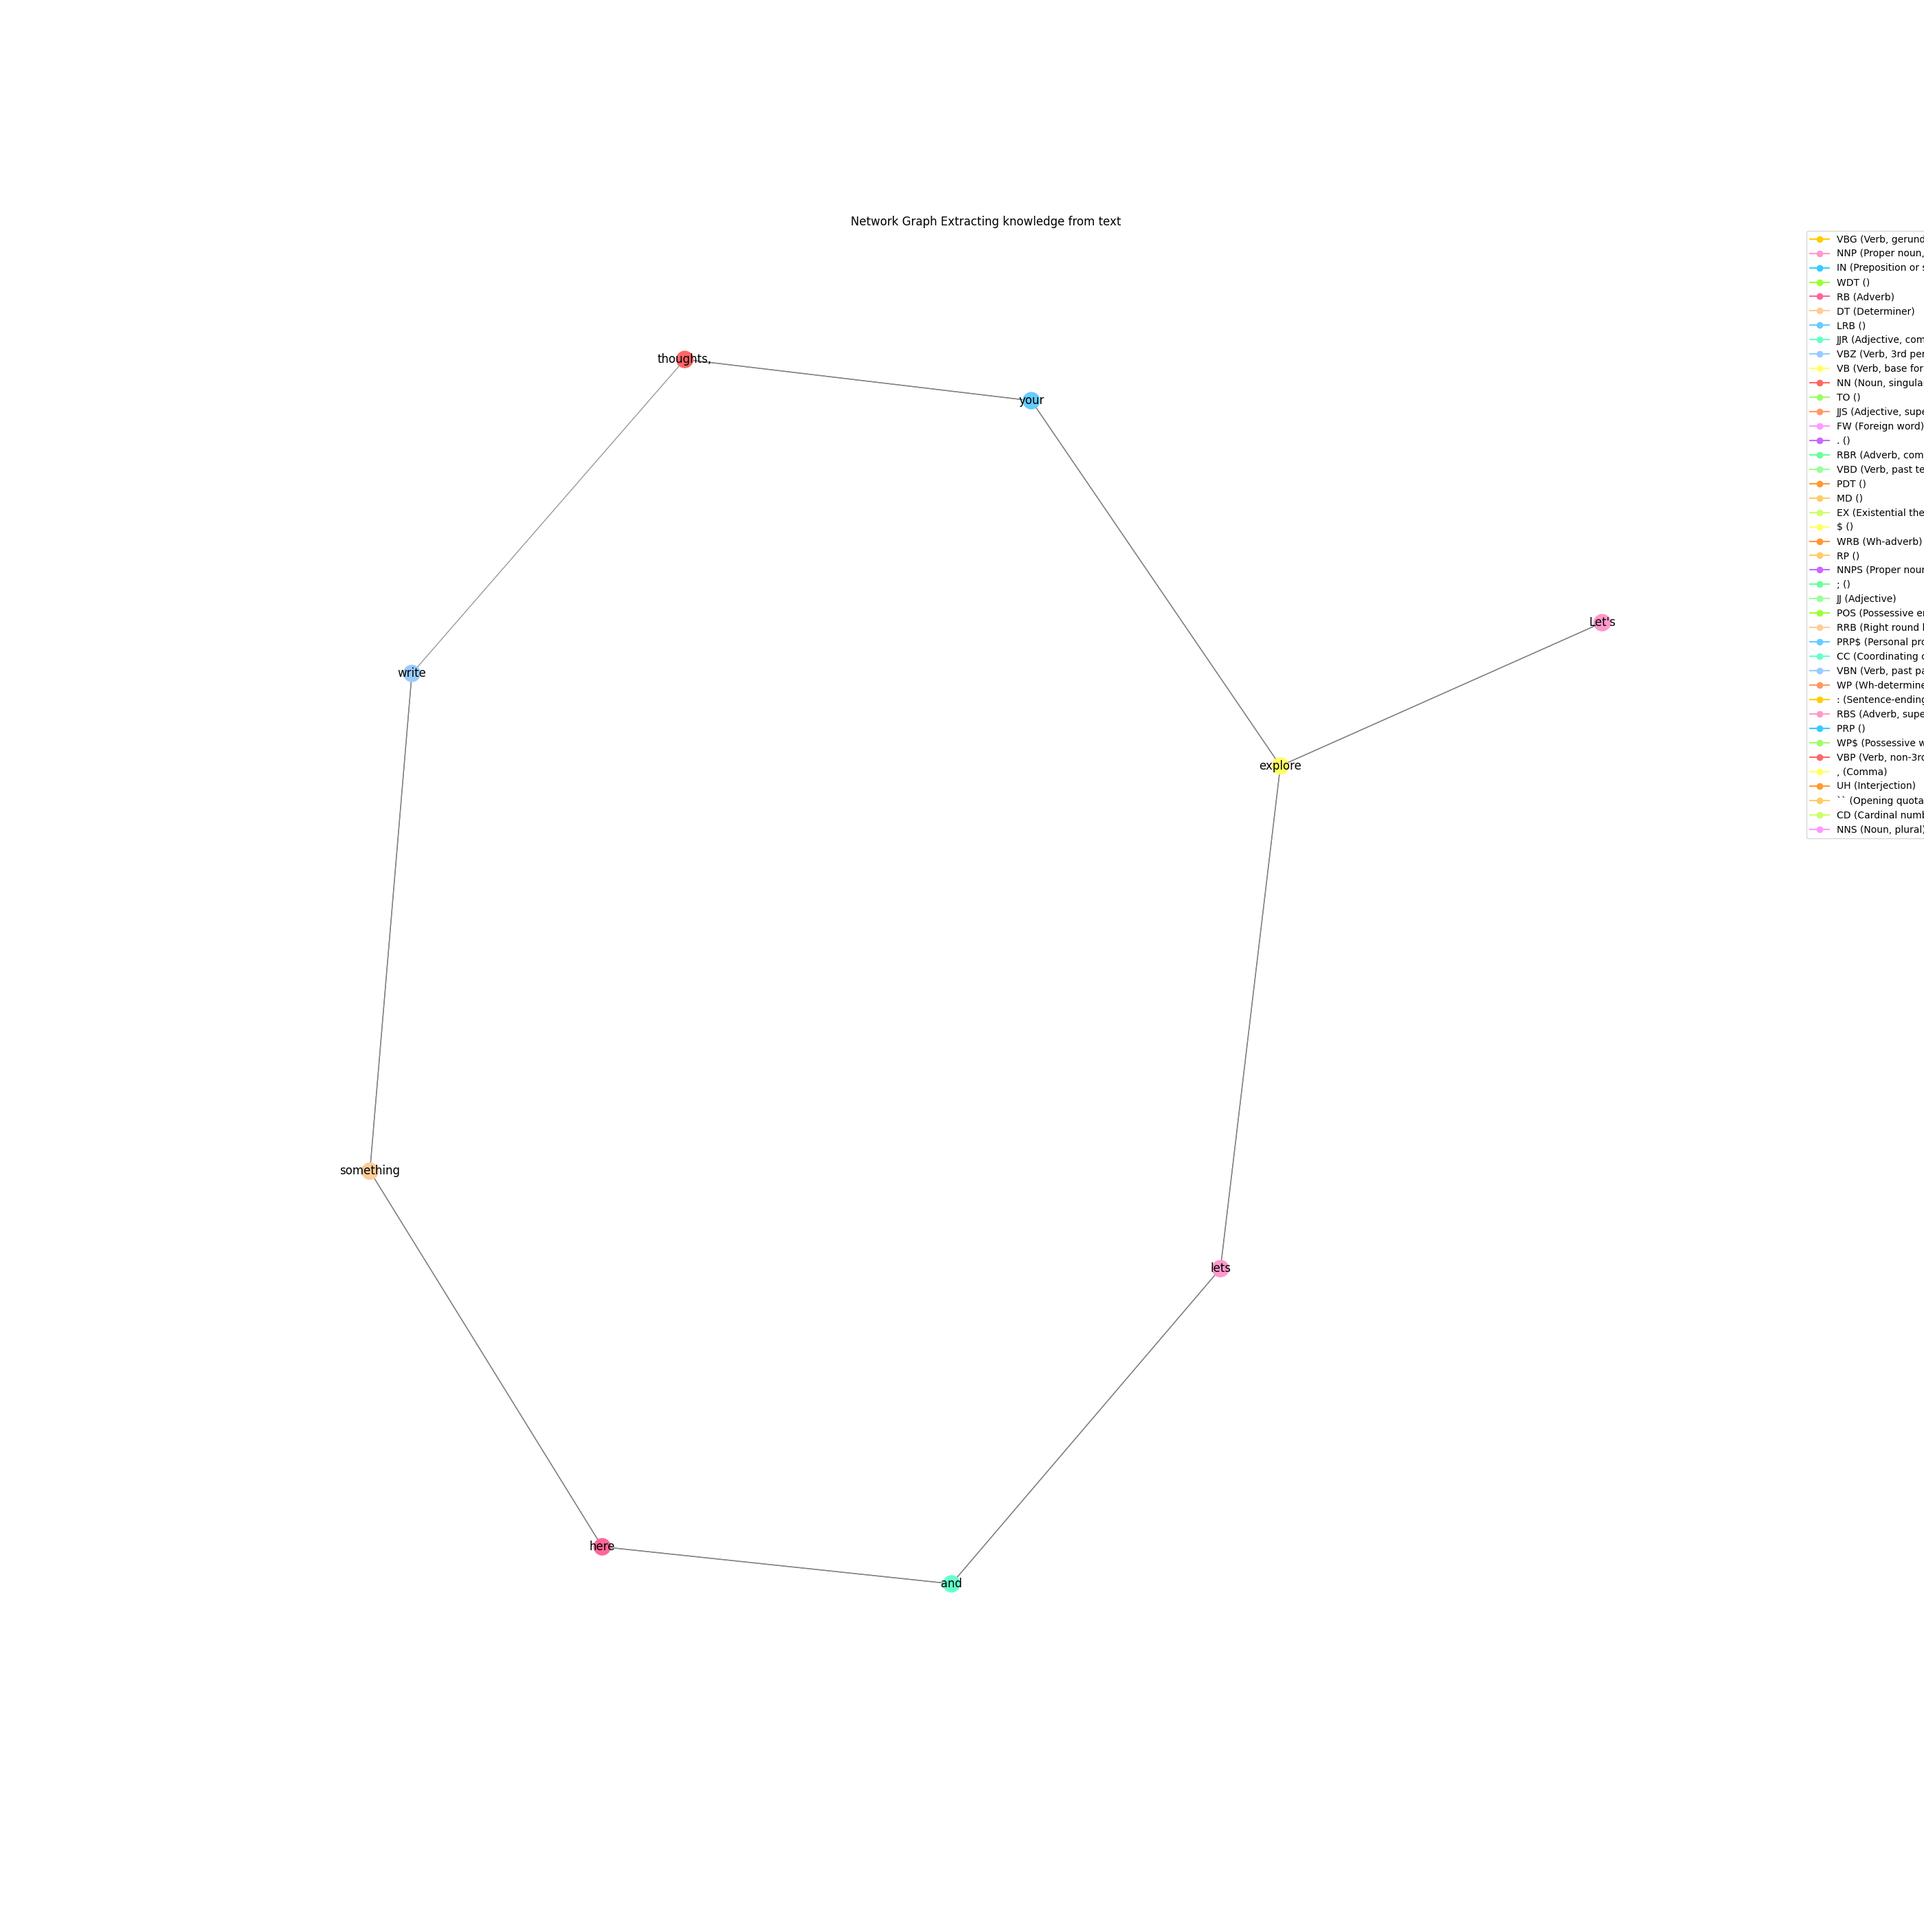
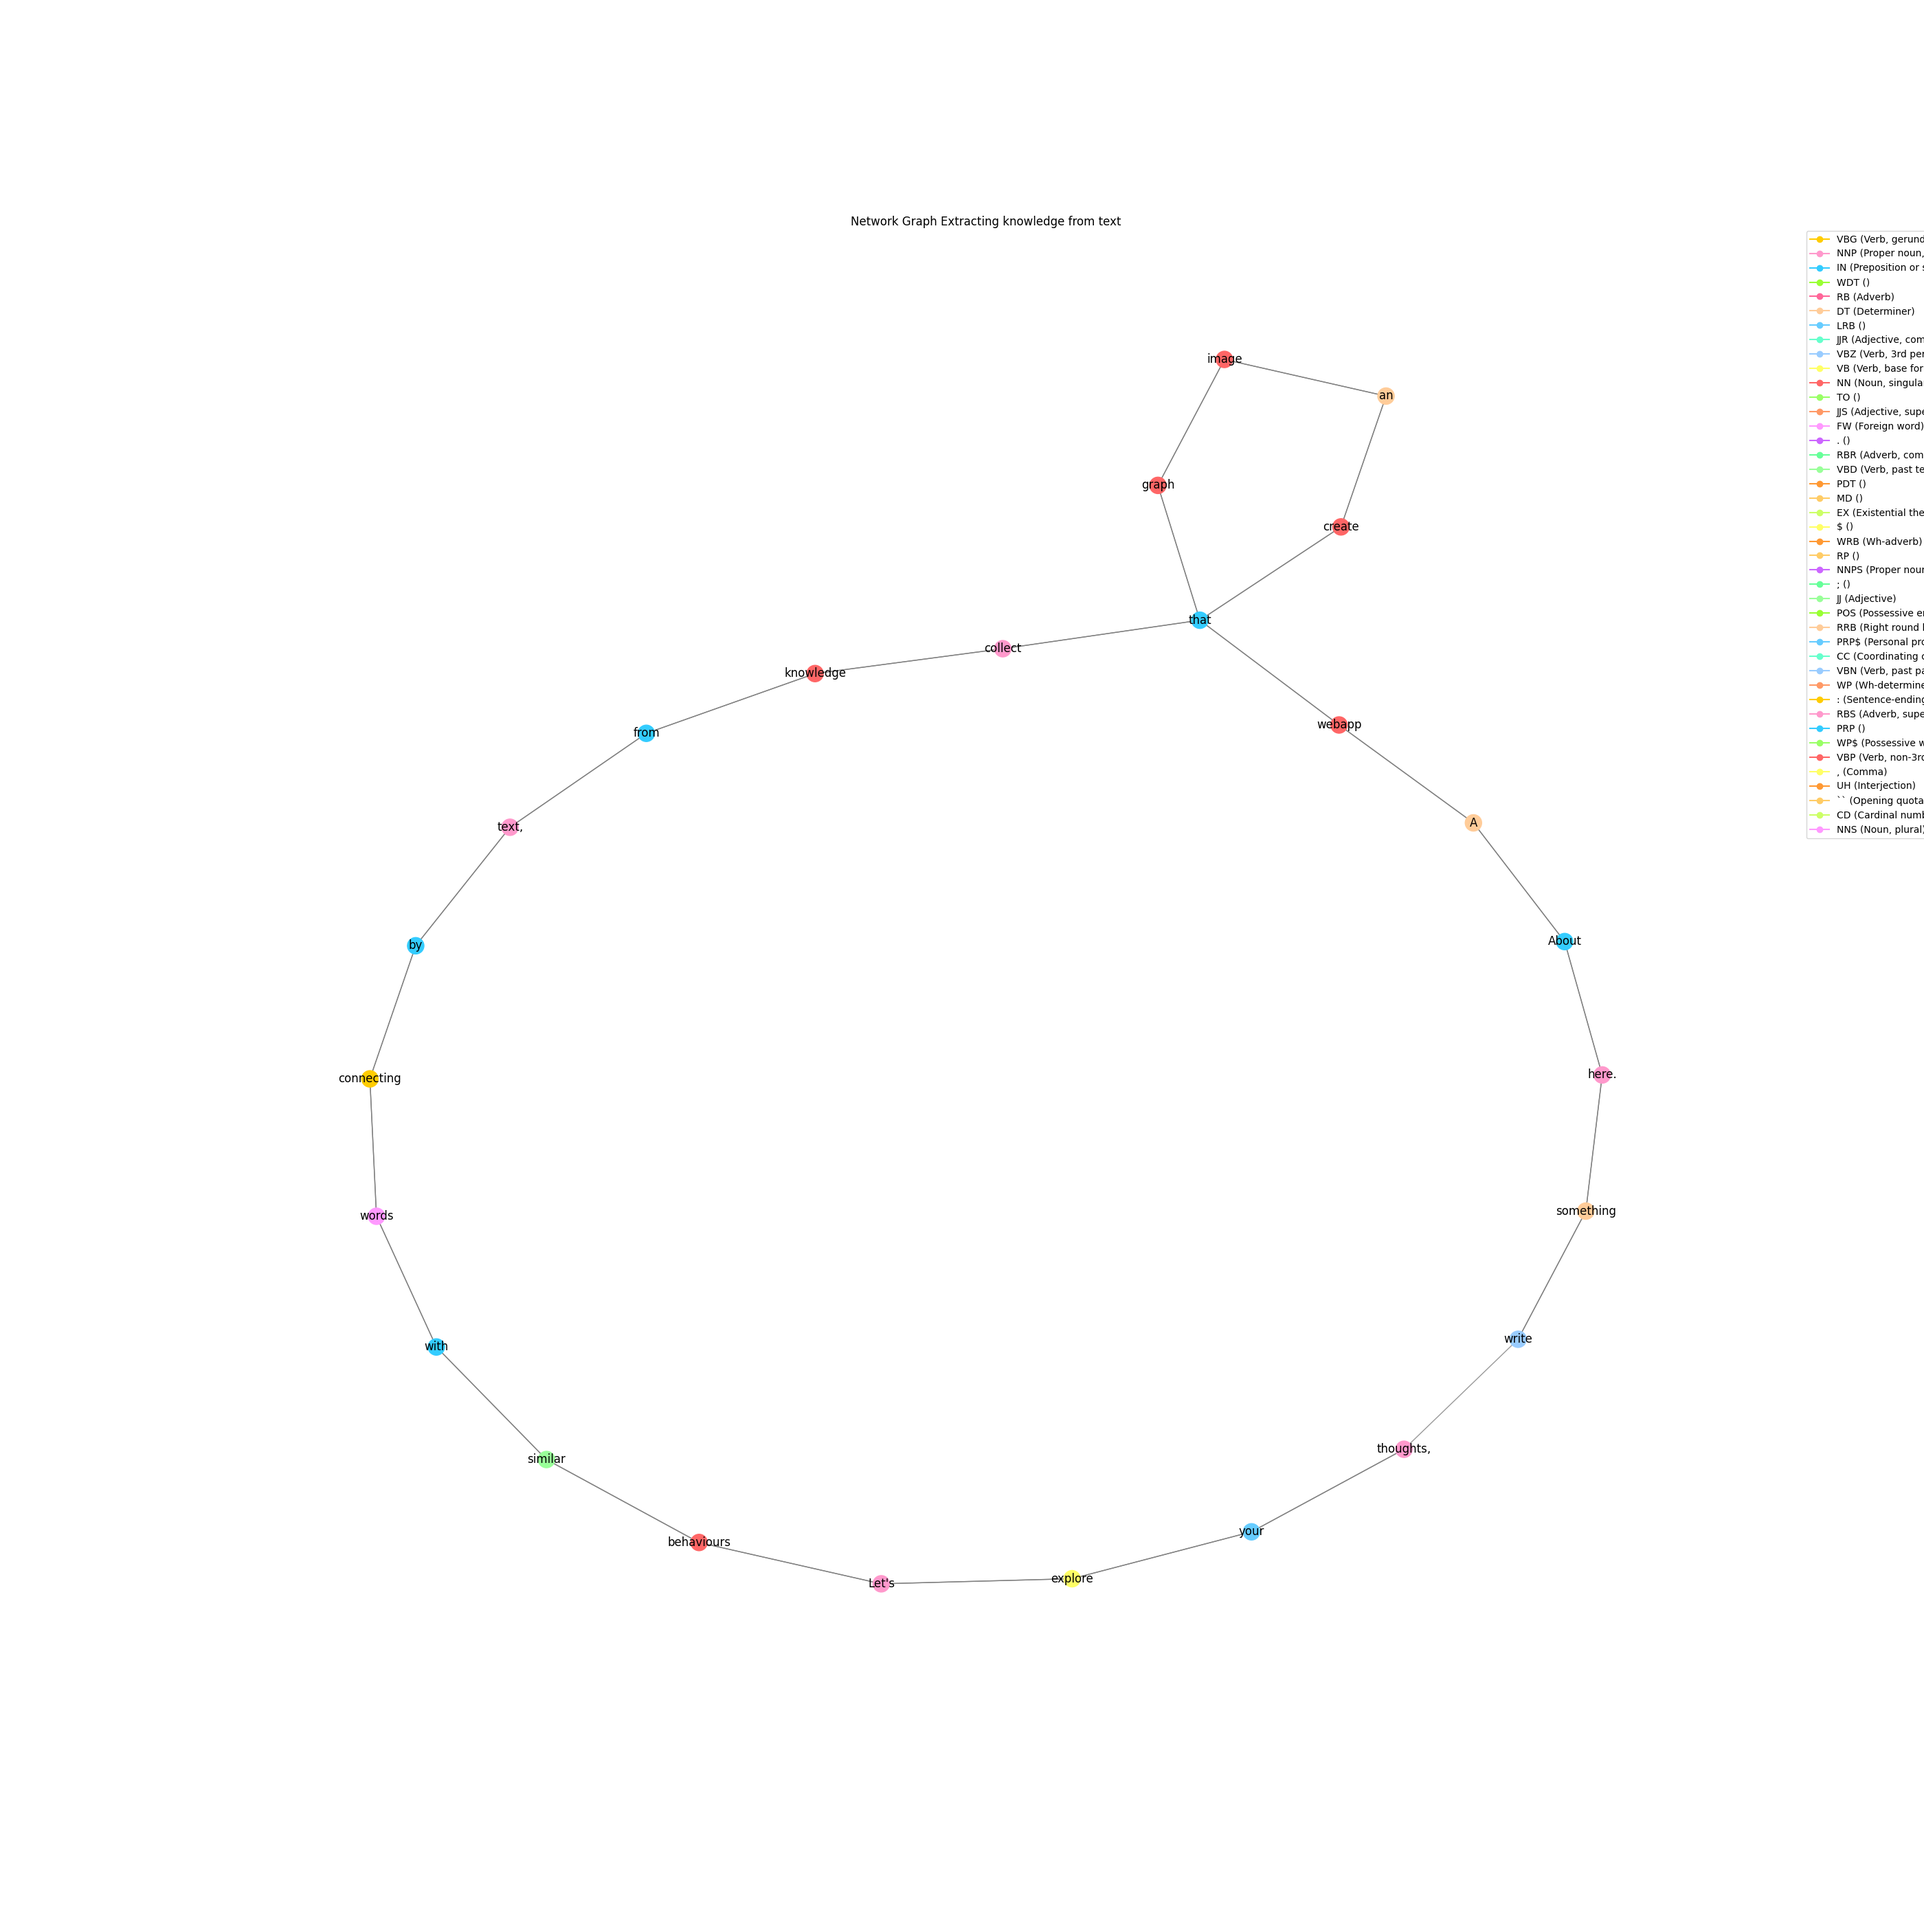
Added Graph Layouts

diff --git a/templates/ner/index.html b/templates/ner/index.html
@@ -35,6 +35,12 @@
                         <form method='POST'>{% csrf_token %}
                             <h1 class="display-4 fw-light mb-4">N.E&nbsp;<span class="fw-lighter" style="color: #FA0001;font-size: 37.0408px;"><span style="font-weight: normal !important;">Recognition</span></span></h1>
                             <div class="input-group"><textarea class="form-control" name="message">{{message}}</textarea><button class="btn btn-primary" type="submit" style="background: #FA0001;border-color: #FA0001;">Analyze</button></div>
+                            <select name="layout" class="input-group mt-1">
+                                <option value="1">Select Graph Style</option>
+                                {% for key, value in graph_layout.items %}
+                                  <option value="{{ key }}">{{ value }}</option>
+                                {% endfor %}
+                              </select>
                         </form>
                     </div>
                 </section>

diff --git a/ner/views.py b/ner/views.py
@@ -3,17 +3,28 @@ from .engine.ner import *
 
 # Create your views here.
 def index(request):
+    graph_layout = {
+        1 : "Kamada Kawai",
+        2 : "Circular",
+        3 : "Spring",
+        4 : "Spiral"
+    }
+
     if request.POST:
         msg = request.POST['message']
+        styl = int(request.POST['layout'])
+
         recognitions = entity_recognition(msg, 50),
-        image = preview(prediction_labels=recognitions)
+        image = preview(prediction_labels=recognitions, style=styl)
         context = {
+            'graph_layout' : graph_layout,
             'message' : msg,
             'image' : image
         }
         return render(request, 'ner/index.html', context)
 
     context={
+        'graph_layout' : graph_layout,
         'message' : "Let's explore your thoughts, write something here...",
         'image': "/media/output.png"
     }
